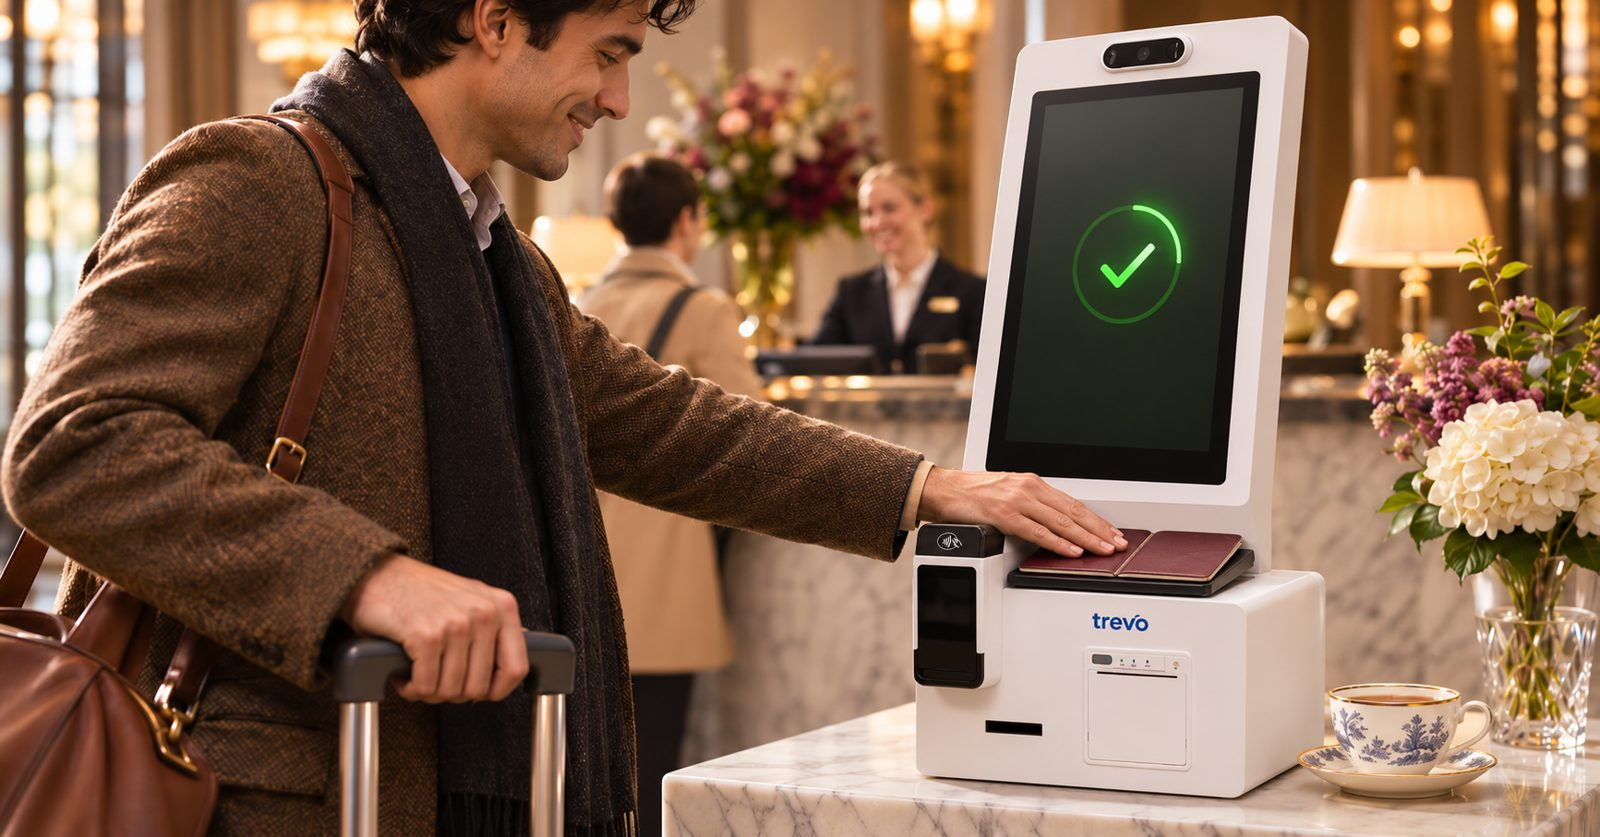
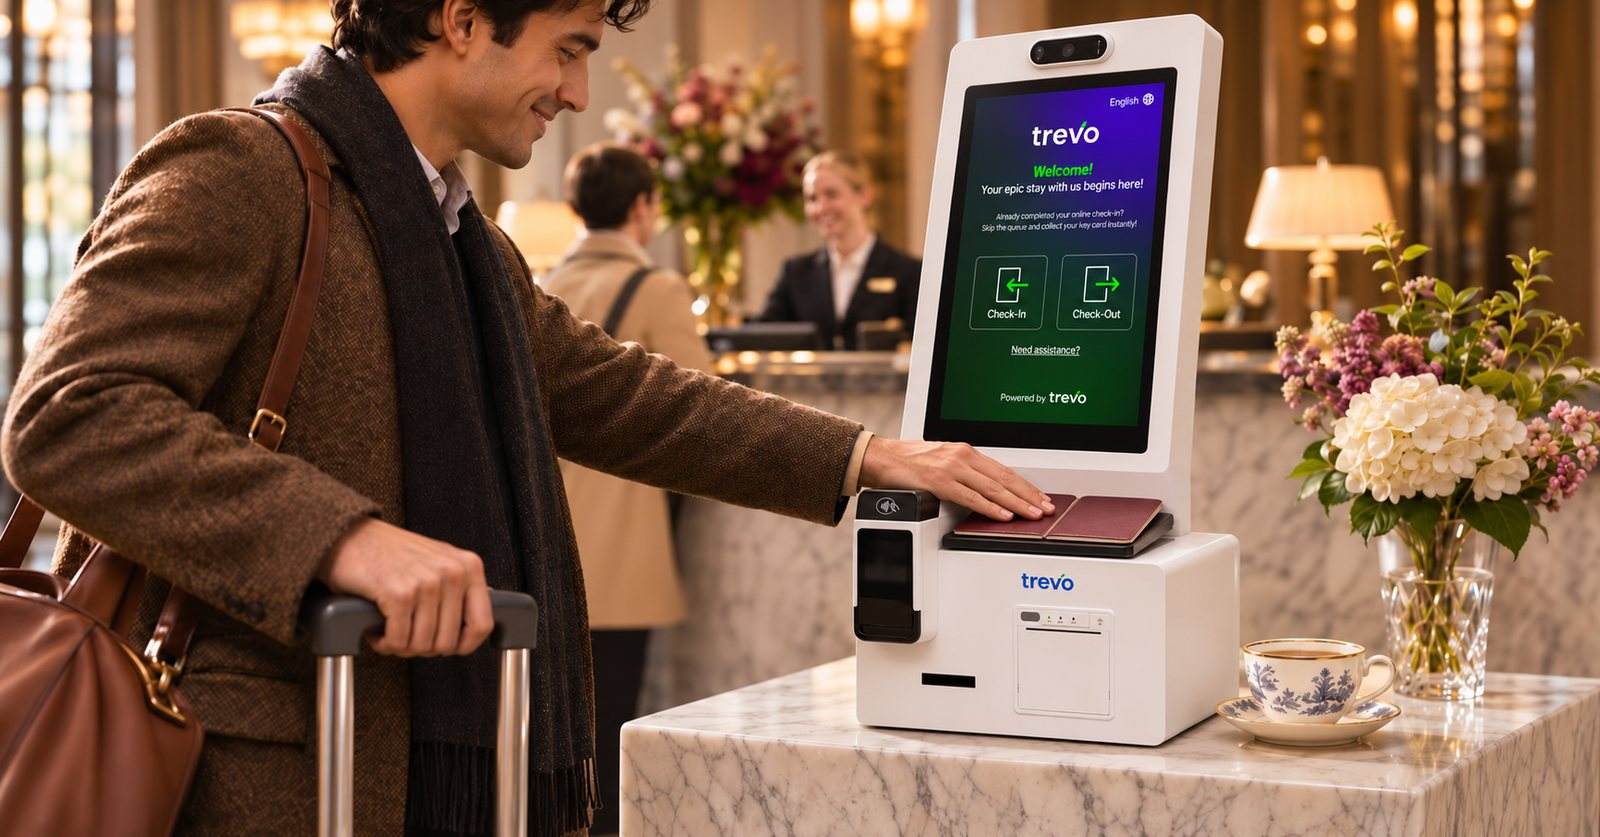
Hotels: real Trevo screens on kiosk photos + clearer copy (#20)
- Replace hero, Mk0, Mk1, Mk2 photos (real Trevo Welcome screen); ?v=2 cache-bust
- New intro paragraphs, button labels, photo note, integration note
- Clearer Trevo stat labels
- Guest journey moved before track record; HKIA reference moved after FAQ
- /hotels-only contact heading, intro and submit label

Claude-Session: https://claude.ai/code/session_01C6xVCqwvq7hmtECB4sWs7M

diff --git a/app/hotels/page.tsx b/app/hotels/page.tsx
@@ -127,29 +127,31 @@ export default function HotelsPage() {
           </h1>
           <div className="mt-8 max-w-[610px] space-y-4 text-[16px] leading-[1.7] text-muted">
             <p>
-              Hotel arrivals rarely happen one at a time. There is the early
-              guest, the late flight, the coach party and the queue that
-              appears just as reception gets busy.
+              Guests arrive early, flights land late, and queues build just
+              when reception is busiest.
             </p>
             <p>
-              Trevo gives guests another way to check in, collect their key
-              card and get on with their stay, while your team has more time
-              for the welcome. MacroKinetic MediaTech Limited is Trevo&rsquo;s
-              authorised partner for the UK and Europe, providing sales,
-              installation and local support for UK hotels.
+              Trevo gives guests the choice to check in before arrival, use a
+              self-service kiosk and collect their room key. Your reception
+              team stays free to help guests who need them.
+            </p>
+            <p>
+              MacroKinetic MediaTech Limited is Trevo&rsquo;s authorised UK and
+              Europe partner, providing sales, installation and local support
+              from London.
             </p>
           </div>
           <div className="mt-9 flex flex-wrap items-center gap-3">
             <a href="#contact" className={btnDark}>
-              Discuss your hotel
+              Discuss Trevo for your hotel
             </a>
             <a href="#how-it-works" className={btnLight}>
-              See how it works
+              See how Trevo works
             </a>
           </div>
           <div className="mt-12 overflow-hidden rounded-xl bg-paper md:mt-16">
             <Image
-              src="/hotels/hero-mk2-lobby.jpg"
+              src="/hotels/hero-mk2-lobby.jpg?v=2"
               alt="Guests checking in on a Trevo Mk2 self check-in kiosk in a hotel lobby"
               width={1600}
               height={837}
@@ -159,12 +161,65 @@ export default function HotelsPage() {
             />
           </div>
           <p className="mt-3 text-[11px] text-faint">
-            Illustrative hotel scenes. The kiosks shown are real Trevo models.
+            Illustrative hotel scenes featuring Trevo kiosk models.
           </p>
         </div>
       </section>
 
-      {/* 02 Proof band */}
+      {/* 02 Guest journey */}
+      <section id="how-it-works" className="scroll-mt-28 bg-canvas">
+        <div className="shell grid grid-cols-1 gap-12 py-20 md:py-28 lg:grid-cols-[minmax(0,7fr)_minmax(0,5fr)] xl:gap-20">
+          <div>
+            <SectionHead eyebrow="The guest journey" title="From arrival to room key." />
+            <ol className="mt-12 border-b border-hairline">
+              {trevoSteps.map((st, i) => (
+                <li key={st.title} className="grid grid-cols-[48px_1fr] gap-4 border-t border-hairline py-6 md:grid-cols-[64px_1fr]">
+                  <span className="font-mono text-[13px] text-macro">0{i + 1}</span>
+                  <div>
+                    <h3 className="text-[17px] font-medium text-ink">{st.title}</h3>
+                    <p className="mt-2 max-w-xl text-[15px] leading-relaxed text-muted">{st.text}</p>
+                  </div>
+                </li>
+              ))}
+            </ol>
+            <dl className="mt-10 grid grid-cols-1 gap-6 sm:grid-cols-3">
+              {trevoExtras.map((x) => (
+                <div key={x.title}>
+                  <dt className="text-[14px] font-medium text-ink">{x.title}</dt>
+                  <dd className="mt-1 text-[13px] leading-relaxed text-muted">{x.text}</dd>
+                </div>
+              ))}
+            </dl>
+            <p className="mt-10 text-[12px] text-faint">
+              Available steps depend on the kiosk model, hotel systems and agreed
+              configuration. The aim is not to remove the human welcome, but to
+              make routine tasks easier for guests and reception teams.
+            </p>
+          </div>
+          <div className="lg:pt-20">
+            <div className="rounded-xl bg-paper p-6 md:p-8">
+              <video
+                src="/hotels/m-hotel-mk2.mp4"
+                poster="/hotels/m-hotel-mk2-poster.jpg"
+                muted
+                playsInline
+                controls
+                preload="metadata"
+                width={544}
+                height={960}
+                className="mx-auto h-auto w-full max-w-[300px] rounded-lg"
+                aria-label="Trevo at M Hotel: pre-arrival registration on a phone, check-in at a Trevo Mk2 kiosk and key-card collection"
+              />
+              <p className="mx-auto mt-4 max-w-[300px] text-[12px] leading-relaxed text-muted">
+                Real Trevo installation at M Hotel Singapore: pre-arrival
+                registration, kiosk check-in and key collection.
+              </p>
+            </div>
+          </div>
+        </div>
+      </section>
+
+      {/* 03 Proof band */}
       <section id="track-record" className="scroll-mt-28 bg-ink text-white">
         <div className="shell py-20 md:py-28">
           <SectionHead dark eyebrow="Trevo at a glance" title="Proven in Singapore since 2014. Now supported from London." />
@@ -234,59 +289,6 @@ export default function HotelsPage() {
         </div>
       </section>
 
-      {/* 03 Guest journey */}
-      <section id="how-it-works" className="scroll-mt-28 bg-canvas">
-        <div className="shell grid grid-cols-1 gap-12 py-20 md:py-28 lg:grid-cols-[minmax(0,7fr)_minmax(0,5fr)] xl:gap-20">
-          <div>
-            <SectionHead eyebrow="The guest journey" title="From arrival to room key." />
-            <ol className="mt-12 border-b border-hairline">
-              {trevoSteps.map((st, i) => (
-                <li key={st.title} className="grid grid-cols-[48px_1fr] gap-4 border-t border-hairline py-6 md:grid-cols-[64px_1fr]">
-                  <span className="font-mono text-[13px] text-macro">0{i + 1}</span>
-                  <div>
-                    <h3 className="text-[17px] font-medium text-ink">{st.title}</h3>
-                    <p className="mt-2 max-w-xl text-[15px] leading-relaxed text-muted">{st.text}</p>
-                  </div>
-                </li>
-              ))}
-            </ol>
-            <dl className="mt-10 grid grid-cols-1 gap-6 sm:grid-cols-3">
-              {trevoExtras.map((x) => (
-                <div key={x.title}>
-                  <dt className="text-[14px] font-medium text-ink">{x.title}</dt>
-                  <dd className="mt-1 text-[13px] leading-relaxed text-muted">{x.text}</dd>
-                </div>
-              ))}
-            </dl>
-            <p className="mt-10 text-[12px] text-faint">
-              Available steps depend on the kiosk model, hotel systems and agreed
-              configuration. The aim is not to remove the human welcome, but to
-              make routine tasks easier for guests and reception teams.
-            </p>
-          </div>
-          <div className="lg:pt-20">
-            <div className="rounded-xl bg-paper p-6 md:p-8">
-              <video
-                src="/hotels/m-hotel-mk2.mp4"
-                poster="/hotels/m-hotel-mk2-poster.jpg"
-                muted
-                playsInline
-                controls
-                preload="metadata"
-                width={544}
-                height={960}
-                className="mx-auto h-auto w-full max-w-[300px] rounded-lg"
-                aria-label="Trevo at M Hotel: pre-arrival registration on a phone, check-in at a Trevo Mk2 kiosk and key-card collection"
-              />
-              <p className="mx-auto mt-4 max-w-[300px] text-[12px] leading-relaxed text-muted">
-                Real Trevo installation at M Hotel Singapore: pre-arrival
-                registration, kiosk check-in and key collection.
-              </p>
-            </div>
-          </div>
-        </div>
-      </section>
-
       {/* 04 Range */}
       <section className="hairline-t bg-paper">
         <div className="shell py-20 md:py-28">
@@ -341,9 +343,9 @@ export default function HotelsPage() {
                 ))}
               </ul>
               <p className="mt-6 max-w-xl text-[13px] leading-relaxed text-faint">
-                Compatibility depends on your hotel&rsquo;s systems, versions and
-                project requirements. We check these before recommending a
-                configuration.
+                Tell us which PMS, door locks and payment systems your hotel
+                uses. We&rsquo;ll review compatibility and the available
+                integration options before recommending a Trevo configuration.
               </p>
             </div>
             <div>
@@ -374,36 +376,6 @@ export default function HotelsPage() {
             </div>
           </div>
 
-          <div className="mt-16 grid grid-cols-1 items-center gap-8 border-t border-hairline pt-10 md:grid-cols-12">
-            <div className="overflow-hidden rounded-xl bg-paper md:col-span-4">
-              <Image
-                src="/references/hkia/kiosk-visitors.jpg"
-                alt="Visitors using a MacroKinetic customer service kiosk at Hong Kong International Airport"
-                width={2560}
-                height={1920}
-                sizes="(max-width: 768px) 100vw, 420px"
-                className="aspect-[4/3] h-auto w-full object-cover"
-              />
-            </div>
-            <div className="md:col-span-8 md:pl-6">
-              <p className="eyebrow">MacroKinetic engineering experience</p>
-              <h3 className="mt-3 text-xl font-medium tracking-tight text-ink md:text-2xl">
-                Intelligent self-service engineering since 2008.
-              </h3>
-              <p className="mt-3 max-w-2xl text-[15px] leading-relaxed text-muted">
-                Our Hong Kong company, MacroKinetic Technology Consulting
-                Limited, designed and developed the Intelligent Customer Service
-                Counters at Hong Kong International Airport together with NEC.
-                48 units are live, with more planned.
-              </p>
-              <p className="mt-2 text-[12px] text-faint">
-                A MacroKinetic engineering reference, not a Trevo hotel deployment.
-              </p>
-              <Link href="/references/hkia" className="mt-4 inline-flex text-[14px] font-medium text-ink underline-offset-4 hover:underline">
-                See the airport project →
-              </Link>
-            </div>
-          </div>
         </div>
       </section>
 
@@ -485,6 +457,42 @@ export default function HotelsPage() {
           </div>
         </section>
       )}
+
+      {/* 08 Engineering reference */}
+      <section className="hairline-t bg-canvas">
+        <div className="shell py-16 md:py-20">
+          <div className="grid grid-cols-1 items-center gap-8 md:grid-cols-12">
+            <div className="overflow-hidden rounded-xl bg-paper md:col-span-4">
+              <Image
+                src="/references/hkia/kiosk-visitors.jpg"
+                alt="Visitors using a MacroKinetic customer service kiosk at Hong Kong International Airport"
+                width={2560}
+                height={1920}
+                sizes="(max-width: 768px) 100vw, 420px"
+                className="aspect-[4/3] h-auto w-full object-cover"
+              />
+            </div>
+            <div className="md:col-span-8 md:pl-6">
+              <p className="eyebrow">MacroKinetic engineering experience</p>
+              <h3 className="mt-3 text-xl font-medium tracking-tight text-ink md:text-2xl">
+                MacroKinetic group engineering experience since 2008.
+              </h3>
+              <p className="mt-3 max-w-2xl text-[15px] leading-relaxed text-muted">
+                Our Hong Kong company, MacroKinetic Technology Consulting
+                Limited, designed and developed the Intelligent Customer Service
+                Counters at Hong Kong International Airport together with NEC.
+                48 units are live, with more planned.
+              </p>
+              <p className="mt-2 text-[12px] text-faint">
+                A MacroKinetic engineering reference, not a Trevo hotel deployment.
+              </p>
+              <Link href="/references/hkia" className="mt-4 inline-flex text-[14px] font-medium text-ink underline-offset-4 hover:underline">
+                See the airport project →
+              </Link>
+            </div>
+          </div>
+        </div>
+      </section>
 
       <script
         type="application/ld+json"

diff --git a/lib/content.ts b/lib/content.ts
@@ -662,7 +662,7 @@ export const trevoModels: TrevoModel[] = [
     description:
       "Compact touchscreen check-in stations built into the hotel's own reception furniture.",
     bestFor: "For hotels planning a new counter or adapting an existing one.",
-    image: { src: "/hotels/mk0.jpg", w: 1600, h: 837, alt: "Trevo Mk0 touchscreen check-in stations built into a hotel reception counter" },
+    image: { src: "/hotels/mk0.jpg?v=2", w: 1600, h: 837, alt: "Trevo Mk0 touchscreen check-in stations built into a hotel reception counter" },
   },
   {
     name: "Mk1",
@@ -670,7 +670,7 @@ export const trevoModels: TrevoModel[] = [
     description:
       "A portable touchscreen kiosk with automatic key-card encoding and dispensing, including QR-based key collection.",
     bestFor: "For hotels adding self-service key collection without redesigning the reception desk.",
-    image: { src: "/hotels/mk1.jpg", w: 1600, h: 837, alt: "Guest checking in on a Trevo Mk1 tabletop kiosk in a hotel lobby" },
+    image: { src: "/hotels/mk1.jpg?v=2", w: 1600, h: 837, alt: "Guest checking in on a Trevo Mk1 tabletop kiosk in a hotel lobby" },
   },
   {
     name: "Mk2",
@@ -678,7 +678,7 @@ export const trevoModels: TrevoModel[] = [
     description:
       "A portable check-in kiosk with passport and ID scanning, a selfie camera with liveness checking, payment and key-card collection.",
     bestFor: "For hotels wanting more of the arrival handled at one self-service station.",
-    image: { src: "/hotels/mk2.jpg", w: 1600, h: 837, alt: "Guest scanning a passport on a Trevo Mk2 self check-in kiosk" },
+    image: { src: "/hotels/mk2.jpg?v=2", w: 1600, h: 837, alt: "Guest scanning a passport on a Trevo Mk2 self check-in kiosk" },
   },
   {
     name: "Mk3",
@@ -740,8 +740,8 @@ export const trevoHotels: string[] = [
 export const trevoResults: { value: string; label: string; source: string }[] = [
   { value: "100%", label: "self check-in adoption", source: "Hotel Waterloo Singapore, 2026. The lobby was designed around Trevo Mk0 kiosks; featured on CNA." },
   { value: "~40%", label: "of guests chose mobile check-in", source: "The Fullerton Hotel Singapore on a peak weekend, 2024, as cited by the Singapore Tourism Board." },
-  { value: "80%", label: "of arrivals can check in at the kiosk", source: "What hotels can reach with Trevo kiosks. Trevo figure." },
-  { value: "Up to 5%", label: "extra revenue each month", source: "From room upgrades and add-ons such as airport transfers. Trevo figure." },
+  { value: "80%", label: "Trevo reports kiosk use by up to 80% of arrivals at some hotels", source: "What hotels can reach with Trevo kiosks. Trevo figure." },
+  { value: "Up to 5%", label: "Trevo reports up to 5% extra revenue each month", source: "From room upgrades and add-ons such as airport transfers. Trevo figure." },
 ];
 
 export const trevoGuides: { title: string; text: string; href: string }[] = [

diff --git a/components/ContactSection.tsx b/components/ContactSection.tsx
@@ -7,12 +7,34 @@ import { company } from "@/lib/content";
 // Shared section (rendered in the root layout). /hotels shows the UK sales
 // inbox; other pages keep the general enquiry address for now.
 function directEmailFor(pathname: string | null) {
-  return pathname?.startsWith("/hotels") ? company.salesEmail : company.enquiryEmail;
+  return isHotelsPath(pathname) ? company.salesEmail : company.enquiryEmail;
 }
+
+function isHotelsPath(pathname: string | null) {
+  return pathname?.startsWith("/hotels") ?? false;
+}
+
+// /hotels gets its own heading, intro and submit label; every other page
+// keeps the default copy.
+const copy = {
+  default: {
+    heading: "Brief our team.",
+    intro:
+      "For project enquiries, partnership discussions or technical consultations, reach us directly or use the form.",
+    submit: "Send Enquiry",
+  },
+  hotels: {
+    heading: "Let\u2019s talk about your hotel.",
+    intro:
+      "Tell us a little about your property and what you\u2019d like to improve. We can discuss your check-in process, existing systems and which Trevo kiosk might suit your hotel.",
+    submit: "Request a 20-minute conversation",
+  },
+};
 
 export default function ContactSection({ email }: { email?: string }) {
   const pathname = usePathname();
   const directEmail = email ?? directEmailFor(pathname);
+  const text = isHotelsPath(pathname) ? copy.hotels : copy.default;
   return (
     <section id="contact" className="hairline-t bg-paper scroll-mt-20">
       <div className="shell grid grid-cols-1 gap-16 py-20 md:grid-cols-12 md:py-28">
@@ -20,11 +42,10 @@ export default function ContactSection({ email }: { email?: string }) {
         <div className="md:col-span-4">
           <p className="eyebrow">Contact</p>
           <h2 className="mt-4 text-2xl font-medium leading-tight tracking-editorial text-ink md:text-3xl">
-            Brief our team.
+            {text.heading}
           </h2>
           <p className="mt-6 max-w-xs text-[14px] leading-relaxed text-muted">
-            For project enquiries, partnership discussions or technical
-            consultations, reach us directly or use the form.
+            {text.intro}
           </p>
 
           <div className="mt-8 hairline-t pt-6">
@@ -42,7 +63,7 @@ export default function ContactSection({ email }: { email?: string }) {
 
         {/* Right — form */}
         <div className="md:col-span-8 md:pl-10 md:hairline-x">
-          <ContactForm contactEmail={directEmail} />
+          <ContactForm contactEmail={directEmail} submitLabel={text.submit} />
         </div>
       </div>
     </section>

diff --git a/components/ContactForm.tsx b/components/ContactForm.tsx
@@ -11,7 +11,13 @@ const SITE_KEY =
 const inputBase =
   "w-full rounded-lg border-hair border-hairline bg-canvas px-4 py-3 text-[14px] text-ink placeholder:text-faint focus:border-ink focus:outline-none transition-colors";
 
-export default function ContactForm({ contactEmail }: { contactEmail: string }) {
+export default function ContactForm({
+  contactEmail,
+  submitLabel = "Send Enquiry",
+}: {
+  contactEmail: string;
+  submitLabel?: string;
+}) {
   const [formState, setFormState] = useState<State>("idle");
   const [apiError, setApiError] = useState("");
   const [token, setToken] = useState("");
@@ -251,7 +257,7 @@ export default function ContactForm({ contactEmail }: { contactEmail: string }) 
         disabled={isLoading}
         className="inline-flex items-center gap-2 rounded-full bg-ink px-6 py-3 text-[13px] font-medium tracking-editorial text-white transition-opacity hover:opacity-80 disabled:cursor-not-allowed disabled:opacity-40"
       >
-        {isLoading ? "Sending…" : <>Send Enquiry <span aria-hidden>→</span></>}
+        {isLoading ? "Sending…" : <>{submitLabel} <span aria-hidden>→</span></>}
       </button>
     </form>
   );
